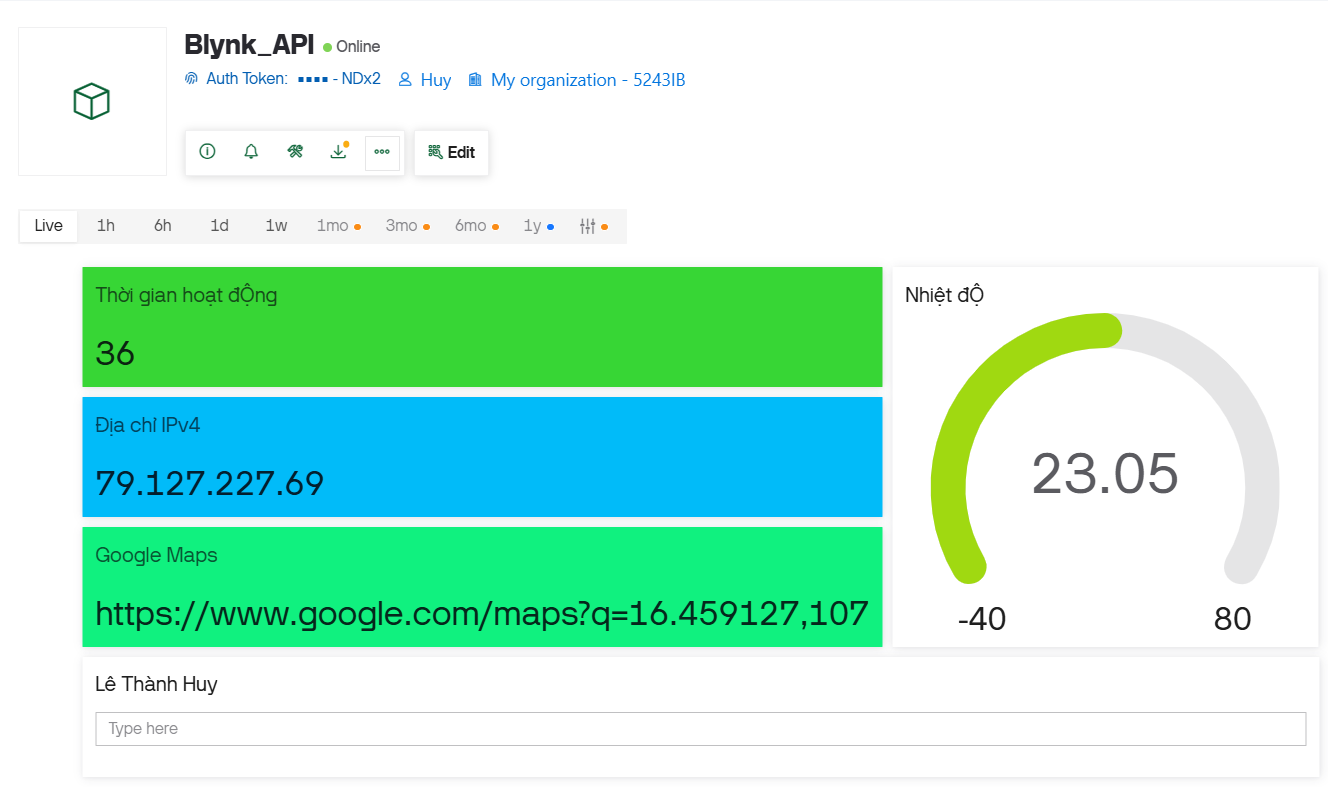
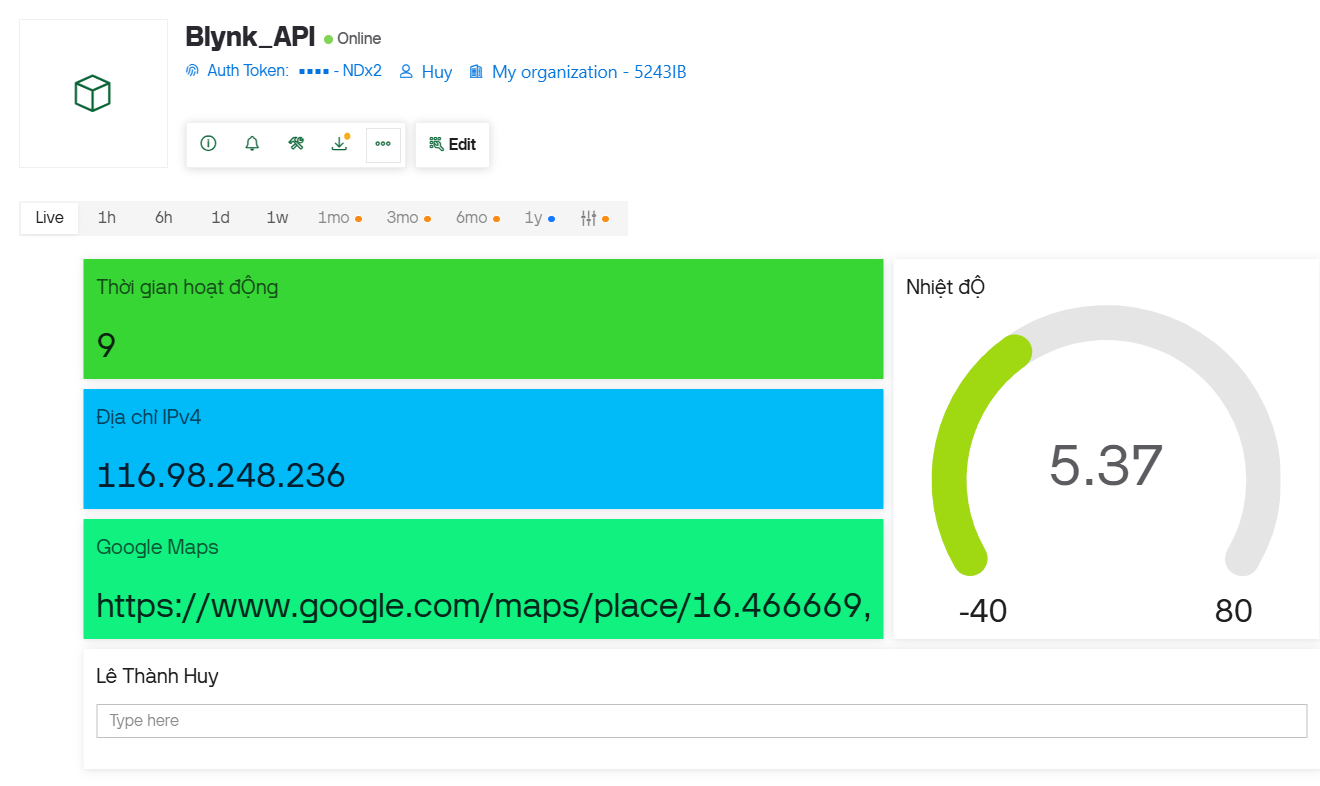
up

diff --git a/TEAM_02/LeThanhHuy-22t1020157/Blynk_API/src/main.cpp b/TEAM_02/LeThanhHuy-22t1020157/Blynk_API/src/main.cpp
@@ -2,148 +2,144 @@
 #define BLYNK_TEMPLATE_NAME "BlynkAPI"
 #define BLYNK_AUTH_TOKEN "G6RidV6rr54U7oiL6M-0wZKhSglPNDx2"
 
-#define BLYNK_PRINT Serial
-
 #include <WiFi.h>
 #include <HTTPClient.h>
 #include <ArduinoJson.h>
 #include <BlynkSimpleEsp32.h>
 
-char ssid[] = "Wokwi-GUEST";
-char pass[] = "";
+#define WIFI_SSID "Wokwi-GUEST"
+#define WIFI_PASSWORD ""
+#define WIFI_CHANNEL 6
 
-BlynkTimer timer;
+#define OPENWEATHERMAP_KEY "YOUR_KEY"
 
-String apiKey = "f776a4341c39f68ae84c5f5dfcdc9f09";
+String ip4;
+String lat;
+String lon;
+String weatherURL;
 
-String ipv4 = "";
+unsigned long lastTemp = 0;
+unsigned long lastUptime = 0;
 
-// Tọa độ Huế
-float lat = 16.4591267;
-float lon = 107.5901477;
 
-unsigned long uptime = 0;
-
-//////////////////////////////////////////////////////
-// UPTIME
-void sendUptime() {
-
-  uptime++;
-
-  Serial.print("Uptime: ");
-  Serial.println(uptime);
-
-  Blynk.virtualWrite(V0, uptime);
-}
-
-//////////////////////////////////////////////////////
-// LẤY IPv4
-void getIP() {
-
+// ================= LẤY IP + LAT + LON =================
+void getAPI()
+{
   HTTPClient http;
-
-  http.begin("http://api.ipify.org");
+  http.begin("http://ip4.iothings.vn/?geo=1");
 
   int code = http.GET();
 
-  if (code == 200) {
+  if (code > 0)
+  {
+    String res = http.getString();
+    Serial.println(res);
 
-    ipv4 = http.getString();
+    String data[7];
+    int i = 0;
 
-    Serial.print("IPv4: ");
-    Serial.println(ipv4);
+    while (res.length() && i < 7)
+    {
+      int p = res.indexOf('|');
+      if (p == -1) { data[i++] = res; break; }
 
-    Blynk.virtualWrite(V1, ipv4);
+      data[i++] = res.substring(0, p);
+      res = res.substring(p + 1);
+    }
+
+    ip4 = data[0];
+    lon = data[5];
+    lat = data[6];
+
+    String mapLink = "https://www.google.com/maps/place/" + lat + "," + lon;
+
+    Serial.println(ip4);
+    Serial.println(mapLink);
+
+    Blynk.virtualWrite(V1, ip4);
+    Blynk.virtualWrite(V2, mapLink);
+
+    weatherURL =
+      "https://api.openweathermap.org/data/2.5/weather?lat=" +
+      lat +
+      "&lon=" +
+      lon +
+      "&appid=" +
+      OPENWEATHERMAP_KEY +
+      "&units=metric";
   }
 
   http.end();
 }
 
-//////////////////////////////////////////////////////
-// LẤY NHIỆT ĐỘ
-void getWeather() {
+
+// ================= LẤY NHIỆT ĐỘ =================
+void updateTemp()
+{
+  if (millis() - lastTemp < 10000) return;
+  lastTemp = millis();
 
   HTTPClient http;
-
-  String url =
-  "http://api.openweathermap.org/data/2.5/weather?lat=" +
-  String(lat,6) +
-  "&lon=" + String(lon,6) +
-  "&appid=" + apiKey +
-  "&units=metric";
-
-  Serial.println("Request:");
-  Serial.println(url);
-
-  http.begin(url);
+  http.begin(weatherURL);
 
   int code = http.GET();
 
-  Serial.print("HTTP Code: ");
-  Serial.println(code);
+  if (code > 0)
+  {
+    String res = http.getString();
 
-  if (code == 200) {
-
-    String payload = http.getString();
-
-    Serial.println(payload);
-
-    DynamicJsonDocument doc(2048);
-    deserializeJson(doc, payload);
+    DynamicJsonDocument doc(1024);
+    deserializeJson(doc, res);
 
     float temp = doc["main"]["temp"];
 
-    Serial.print("Temperature: ");
+    Serial.print("Temp: ");
     Serial.println(temp);
 
     Blynk.virtualWrite(V3, temp);
-
-  } else {
-
-    Serial.println("Weather API error");
-
   }
 
   http.end();
 }
 
-//////////////////////////////////////////////////////
-// GỬI LINK GOOGLE MAP
-void sendMap() {
 
-  String mapLink =
-  "https://www.google.com/maps?q=" +
-  String(lat,6) + "," + String(lon,6);
+// ================= UPTIME =================
+void uptime()
+{
+  if (millis() - lastUptime < 1000) return;
+  lastUptime = millis();
 
-  Serial.print("Map: ");
-  Serial.println(mapLink);
-
-  Blynk.virtualWrite(V2, mapLink);
+  Blynk.virtualWrite(V0, millis() / 1000);
 }
 
-//////////////////////////////////////////////////////
-// SETUP
-void setup() {
 
+// ================= SETUP =================
+void setup()
+{
   Serial.begin(115200);
 
-  Serial.println("Connecting WiFi...");
+  WiFi.begin(WIFI_SSID, WIFI_PASSWORD, WIFI_CHANNEL);
 
-  Blynk.begin(BLYNK_AUTH_TOKEN, ssid, pass);
+  while (WiFi.status() != WL_CONNECTED)
+  {
+    delay(200);
+    Serial.print(".");
+  }
 
-  Serial.println("WiFi Connected");
+  Serial.println("\nWiFi Connected");
 
-  getIP();        // lấy IPv4
-  sendMap();      // gửi Google Map
+  Blynk.config(BLYNK_AUTH_TOKEN);
+  Blynk.connect();
 
-  timer.setInterval(1000L, sendUptime);
-  timer.setInterval(15000L, getWeather);
+  getAPI();
 }
 
-//////////////////////////////////////////////////////
-// LOOP
-void loop() {
 
+// ================= LOOP =================
+void loop()
+{
   Blynk.run();
-  timer.run();
+
+  updateTemp();
+  uptime();
 }
